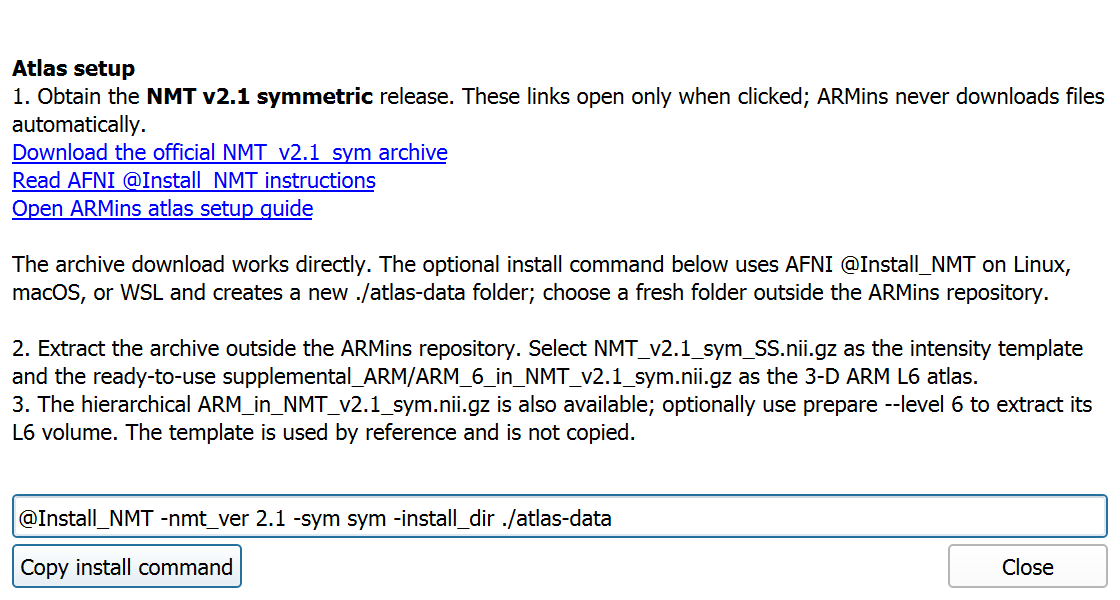
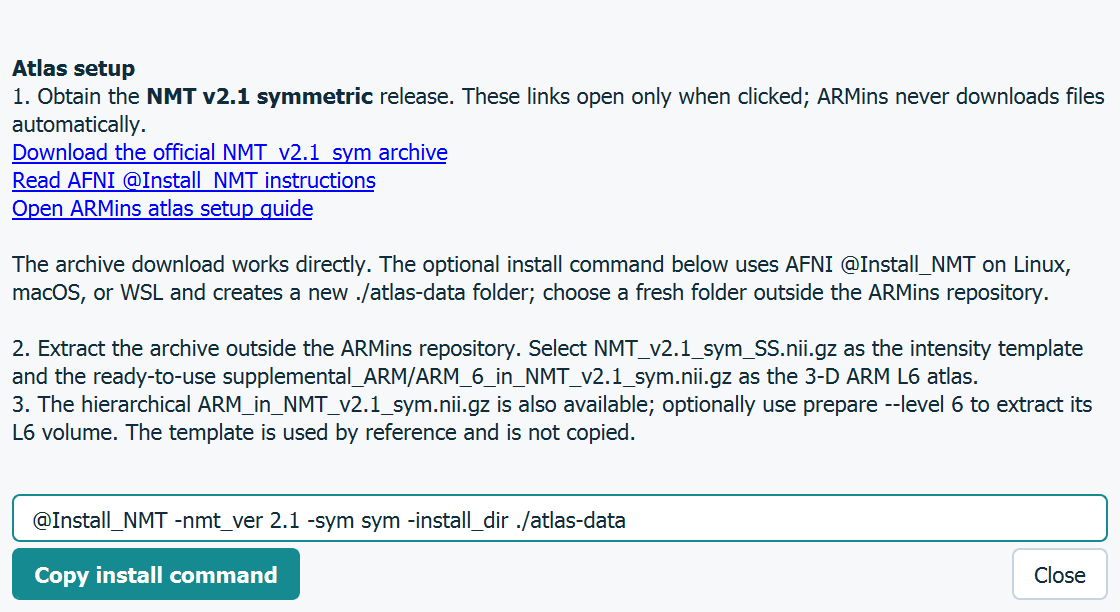
Improve GUI contrast and distinguish region selection action

diff --git a/armins.py b/armins.py
@@ -1,6 +1,6 @@
 """Create bilateral full-insula editing scopes and mirror candidates.
 
-Version: 0.7.0 (local/unreleased)
+Version: 0.7.1 (local/unreleased)
 Last updated: 2026-10-22
 Change history: CHANGELOG.md
 Status: experimental
@@ -24,7 +24,7 @@ try:
 except Exception:  # Slicer is optional for CLI preparation and array validation.
     slicer = None
 
-VERSION = "0.7.0 (local/unreleased)"
+VERSION = "0.7.1 (local/unreleased)"
 
 
 def _runtime_provenance(nib=None):
@@ -1368,6 +1368,93 @@ ARMINS_ATLAS_SETUP_URL = "https://github.com/bylaikaby/ARMins#atlas-setup"
 NMT_INSTALL_COMMAND = "@Install_NMT -nmt_ver 2.1 -sym sym -install_dir ./atlas-data"
 
 
+def _apply_gui_theme(dialog):
+    """Apply a dialog-local navy/teal palette inspired by VisPa's light GUI."""
+    dialog.setStyleSheet("""
+        QDialog { background: #f6f8fa; color: #102b3a; }
+        QLabel { color: #102b3a; }
+        QLabel[arminsRole="banner"] {
+            background: #263746; color: #f4f7f9;
+            border-radius: 6px; padding: 9px 14px;
+        }
+        QLabel[arminsRole="section"] {
+            color: #126b78; font-weight: bold;
+            padding: 4px 0px 3px 0px; border-bottom: 1px solid #d9e3e9;
+        }
+        QLabel[arminsRole="note"] {
+            background: #edf6f7; border: 1px solid #d9e3e9;
+            border-left: 3px solid #168a91; border-radius: 4px; padding: 7px;
+        }
+        QLabel[arminsRole="status"] {
+            background: #eef3f6; border: 1px solid #d9e3e9;
+            border-radius: 4px; padding: 6px; color: #102b3a;
+        }
+        QLineEdit, QComboBox {
+            background: #ffffff; color: #102b3a; border: 1px solid #c6d5df;
+            border-radius: 4px; padding: 3px 7px; min-height: 16px;
+            selection-background-color: #168a91; selection-color: #ffffff;
+        }
+        QLineEdit:focus, QComboBox:focus { border: 1px solid #168a91; }
+        QComboBox QAbstractItemView {
+            background: #ffffff; color: #102b3a;
+            selection-background-color: #edf6f7; selection-color: #126b78;
+        }
+        QPushButton {
+            background: #ffffff; color: #102b3a; border: 1px solid #c6d5df;
+            border-radius: 4px; padding: 4px 10px; min-height: 16px;
+        }
+        QPushButton:hover { background: #edf6f7; border-color: #168a91; }
+        QPushButton:focus { border: 2px solid #168a91; }
+        QPushButton[arminsRole="primary"] {
+            background: #168a91; color: #ffffff; border-color: #168a91;
+            font-weight: bold;
+        }
+        QPushButton[arminsRole="primary"]:hover { background: #126b78; }
+        QPushButton[arminsRole="region"] {
+            background: #6f4a9e; color: #ffffff; border-color: #6f4a9e;
+            font-weight: bold;
+        }
+        QPushButton[arminsRole="region"]:hover { background: #583780; }
+        QPushButton[arminsRole="mirror"] {
+            background: #263746; color: #f4f7f9; border-color: #263746;
+            font-weight: bold;
+        }
+        QPushButton[arminsRole="mirror"]:hover { background: #365065; }
+        QPushButton[arminsRole="save"] {
+            background: #edf6f7; color: #126b78; border-color: #a9cdd1;
+        }
+        QPushButton:disabled, QPushButton[arminsRole="primary"]:disabled,
+        QPushButton[arminsRole="mirror"]:disabled,
+        QPushButton[arminsRole="save"]:disabled,
+        QLineEdit:disabled, QComboBox:disabled {
+            background: #e9eef2; color: #334a59; border: 1px solid #d9e3e9;
+        }
+        QPushButton[arminsRole="region"]:disabled {
+            background: #eee8f5; color: #59416f; border: 1px solid #cdbfdf;
+        }
+    """)
+
+
+def _gui_section(form, parent, title):
+    """Add a compact visual divider without changing any workflow controls."""
+    import qt
+    heading = qt.QLabel(title, parent)
+    heading.setProperty("arminsRole", "section")
+    form.addRow(heading)
+
+
+def _colour_working_side(side_combo, direction):
+    """Redundant colour/text cues: teal for L, amber for R."""
+    left = side_combo.currentText == "L"
+    accent, soft = ("#126b78", "#edf6f7") if left else ("#97521f", "#fff3e6")
+    side_combo.setStyleSheet(
+        f"QComboBox {{ color: {accent}; background: {soft}; "
+        f"border: 1px solid {accent}; font-weight: bold; }}")
+    direction.setStyleSheet(
+        f"QLabel {{ color: {accent}; background: {soft}; "
+        f"border: 1px solid {accent}; border-radius: 4px; padding: 4px 8px; font-weight: bold; }}")
+
+
 def show_atlas_setup_help(parent=None):
     """Open a user-invoked help dialog with official links and a copyable command."""
     _require_slicer()
@@ -1377,6 +1464,7 @@ def show_atlas_setup_help(parent=None):
     help_dialog.setObjectName("NMTAtlasSetupHelpDialog")
     help_dialog.setWindowTitle("Set up NMT v2.1 symmetric atlas")
     help_dialog.setMinimumWidth(560)
+    _apply_gui_theme(help_dialog)
     layout = qt.QVBoxLayout(help_dialog)
     guidance = qt.QLabel(
         "<b>Atlas setup</b><br>"
@@ -1407,13 +1495,15 @@ def show_atlas_setup_help(parent=None):
     buttons = qt.QHBoxLayout()
     copy_button = qt.QPushButton("Copy install command", help_dialog)
     copy_button.setObjectName("CopyNMTInstallCommandButton")
+    copy_button.setProperty("arminsRole", "primary")
     close_button = qt.QPushButton("Close", help_dialog)
+    close_button.setObjectName("CloseNMTSetupHelpButton")
     buttons.addWidget(copy_button)
     buttons.addStretch(1)
     buttons.addWidget(close_button)
     layout.addLayout(buttons)
-    copy_button.clicked.connect(lambda: slicer.app.clipboard().setText(NMT_INSTALL_COMMAND))
-    close_button.clicked.connect(help_dialog.close)
+    copy_button.clicked.connect(lambda *_: slicer.app.clipboard().setText(NMT_INSTALL_COMMAND))
+    close_button.clicked.connect(lambda *_: help_dialog.close())
     help_dialog.show()
     return help_dialog
 
@@ -1433,9 +1523,21 @@ def show_gui():
 
     dialog = qt.QDialog(slicer.util.mainWindow())
     dialog.setObjectName("InsulaAtlasEditorDialog")
-    dialog.setWindowTitle("Insula atlas editor")
+    dialog.setWindowTitle("ARMins · Atlas editor")
     dialog.setMinimumWidth(680)
+    _apply_gui_theme(dialog)
     form = qt.QFormLayout(dialog)
+    form.setContentsMargins(12, 12, 12, 12)
+    form.setHorizontalSpacing(14)
+    form.setVerticalSpacing(5)
+
+    banner = qt.QLabel(
+        "<b>ARMins</b> &nbsp; Atlas refinement<br>"
+        "<span style='color:#a9c0cc'>NMT v2.1 symmetric · Edit one side, review its mirror</span>",
+        dialog)
+    banner.setObjectName("ARMinsBanner")
+    banner.setProperty("arminsRole", "banner")
+    form.addRow(banner)
 
     setup_help_button = qt.QPushButton("NMT v2.1 setup help", dialog)
     setup_help_button.setObjectName("NMTv21SetupHelpButton")
@@ -1446,6 +1548,7 @@ def show_gui():
         ATLAS_SETUP_HELP_DIALOG = show_atlas_setup_help(dialog)
 
     setup_help_button.connect("clicked()", open_setup_help)
+    _gui_section(form, dialog, "01  ·  ATLAS INPUTS AND REGION")
 
     def file_row(default_path, label):
         row = qt.QWidget(dialog)
@@ -1488,6 +1591,10 @@ def show_gui():
     search_edit = qt.QLineEdit(search_row)
     search_edit.setObjectName("ARMHierarchySearch")
     search_edit.setPlaceholderText("Search name, abbreviation, or exact numeric index")
+    search_palette = search_edit.palette
+    search_palette.setColor(qt.QPalette.PlaceholderText, qt.QColor("#334a59"))
+    search_palette.setColor(qt.QPalette.Disabled, qt.QPalette.PlaceholderText, qt.QColor("#334a59"))
+    search_edit.setPalette(search_palette)
     search_side = qt.QComboBox(search_row)
     search_side.addItems(["Both", "L", "R"])
     search_level = qt.QComboBox(search_row)
@@ -1502,12 +1609,16 @@ def show_gui():
     hierarchy_results.setObjectName("ARMHierarchyResults")
     form.addRow("Search results:", hierarchy_results)
     use_region_button = qt.QPushButton("Use selected region (pending)", dialog)
+    use_region_button.setObjectName("UseSelectedRegionButton")
+    use_region_button.setProperty("arminsRole", "region")
     form.addRow(use_region_button)
     region_preview = qt.QLabel("Insula preset is selected. Hierarchy search does not change the scene.", dialog)
     region_preview.setWordWrap(True)
     region_preview.setObjectName("ARMHierarchyProfilePreview")
+    region_preview.setProperty("arminsRole", "note")
     form.addRow("Region preview:", region_preview)
 
+    _gui_section(form, dialog, "02  ·  WORKING HEMISPHERE")
     side_combo = qt.QComboBox(dialog)
     side_combo.addItems(["L", "R"])
     side_combo.setObjectName("WorkingHemisphere")
@@ -1602,19 +1713,17 @@ def show_gui():
     region_mode.currentIndexChanged.connect(lambda *_: search_enable(region_mode.currentIndex == 1))
     search_enable(False)
     guidance = qt.QLabel(
-        "Guidance\n"
-        "1. Choose a 3-D template and ARM level-6 compatible label map. "
-        "The insula preset requires its 16 ARM L6 IDs; hierarchy mode requires only the selected region's bilateral L6 leaves.\n"
-        "2. Load checks that both files have matching image grids. Nothing is resampled.\n"
-        "3. Select a working hemisphere and seed, apply its selected-region scope, then choose Paint. "
-        "Visible donor seeds transfer voxels; hidden siblings can overlap, which the mirror check rejects.\n"
-        "4. Finish one side, then Mirror selected side (new candidate) and Save mirrored candidate. "
-        "Both working groups are preserved.", dialog)
+        "1. Validate matching template/ARM6 grids and the selected region's bilateral labels.\n"
+        "2. Choose L or R and a parcel; apply its scope, then Paint. Visible donors transfer voxels; hidden siblings may overlap.\n"
+        "3. Finish one side, then mirror and review the new opposite-side candidate. Both working groups are preserved.", dialog)
     guidance.setWordWrap(True)
+    guidance.setProperty("arminsRole", "note")
     form.addRow(guidance)
 
     load_button = qt.QPushButton("Validate inputs and load groups", dialog)
+    load_button.setProperty("arminsRole", "primary")
     form.addRow(load_button)
+    _gui_section(form, dialog, "03  ·  EDIT, MIRROR AND SAVE")
     parcel_combo = qt.QComboBox(dialog)
     refresh_button = qt.QPushButton("Refresh parcel list", dialog)
     select_row = qt.QWidget(dialog)
@@ -1625,6 +1734,7 @@ def show_gui():
     form.addRow("Editing group / seed:", select_row)
     apply_button = qt.QPushButton("Apply scope restriction", dialog)
     save_button = qt.QPushButton("Save selected side…", dialog)
+    save_button.setProperty("arminsRole", "save")
     action_row = qt.QWidget(dialog)
     action_layout = qt.QHBoxLayout(action_row)
     action_layout.setContentsMargins(0, 0, 0, 0)
@@ -1632,7 +1742,9 @@ def show_gui():
     action_layout.addWidget(save_button)
     form.addRow(action_row)
     mirror_button = qt.QPushButton("Mirror selected side (new candidate)", dialog)
+    mirror_button.setProperty("arminsRole", "mirror")
     save_mirror_button = qt.QPushButton("Save mirrored candidate…", dialog)
+    save_mirror_button.setProperty("arminsRole", "save")
     mirror_row = qt.QWidget(dialog)
     mirror_layout = qt.QHBoxLayout(mirror_row)
     mirror_layout.setContentsMargins(0, 0, 0, 0)
@@ -1641,9 +1753,12 @@ def show_gui():
     form.addRow(mirror_row)
     direction = qt.QLabel("L → R", dialog)
     direction.setObjectName("MirrorDirection")
+    _colour_working_side(side_combo, direction)
     form.addRow("Candidate direction:", direction)
     status = qt.QLabel("Choose inputs, then validate and load. Opening this panel does not change the scene.", dialog)
     status.setWordWrap(True)
+    status.setObjectName("ARMinsStatus")
+    status.setProperty("arminsRole", "status")
     form.addRow("Status:", status)
 
     gui_ready = False
@@ -1770,6 +1885,7 @@ def show_gui():
     atlas_edit.textChanged.connect(invalidate)
     def focus_working_side(*_):
         direction.setText(f"{side_combo.currentText} → {'R' if side_combo.currentText == 'L' else 'L'}")
+        _colour_working_side(side_combo, direction)
         if not gui_ready:
             return
         refresh_parcels()

diff --git a/tests/slicer_smoke.py b/tests/slicer_smoke.py
@@ -1,6 +1,6 @@
 """Isolated native Slicer integration check for ARMins.
 
-Version: 0.7.0 (local/unreleased)
+Version: 0.7.1 (local/unreleased)
 Last updated: 2026-10-22
 Change history: CHANGELOG.md
 Status: candidate
@@ -51,12 +51,36 @@ def main():
         ns = runpy.run_path(str(loader), run_name='armins_mirror_native_test')
         glob = ns['run'].__globals__
         if phase == 'design':
+            main_window = slicer.util.mainWindow()
+            main_style_before = main_window.styleSheet if main_window is not None else None
             dialog = ns['show_gui']()
             slicer.app.processEvents()
-            image_path = output / 'mirror_dialog.png'
+            import qt
+            assert '#263746' in dialog.styleSheet and '#168a91' in dialog.styleSheet
+            assert dialog.findChild(qt.QLabel, 'ARMinsBanner') is not None
+            side = dialog.findChild(qt.QComboBox, 'WorkingHemisphere')
+            direction = dialog.findChild(qt.QLabel, 'MirrorDirection')
+            scene_before_side = slicer.mrmlScene.GetNumberOfNodes()
+            side.setCurrentIndex(1)
+            assert direction.text == 'R → L' and '#97521f' in direction.styleSheet
+            assert slicer.mrmlScene.GetNumberOfNodes() == scene_before_side
+            right_image = output / 'mirror_dialog_right.png'
+            assert dialog.grab().save(str(right_image))
+            receipt['right_side_screenshot'] = str(right_image)
+            side.setCurrentIndex(0)
+            assert direction.text == 'L → R' and '#126b78' in direction.styleSheet
+            if main_window is not None:
+                assert main_window.styleSheet == main_style_before
+            passed('dialog-local VisPa palette and redundant L/R colour-direction cues leave scene and Slicer theme unchanged')
+            use_region = dialog.findChild(qt.QPushButton, 'UseSelectedRegionButton')
+            assert use_region.property('arminsRole') == 'region' and not use_region.enabled
+            assert '#59416f' in dialog.styleSheet and '#334a59' in dialog.styleSheet
+            search = dialog.findChild(qt.QLineEdit, 'ARMHierarchySearch')
+            assert search.palette.color(qt.QPalette.Disabled, qt.QPalette.PlaceholderText).name() == '#334a59'
+            passed('dark inactive text and placeholder; distinct purple region action retains disabled state')
+            image_path = output / 'mirror_dialog.png' 
             assert dialog.grab().save(str(image_path))
             receipt['screenshot'] = str(image_path)
-            import qt
             labels = [button.text for button in dialog.findChildren(qt.QPushButton)]
             assert any('Mirror selected side' in label for label in labels), labels
             assert any('Save mirrored candidate' in label for label in labels), labels
@@ -94,8 +118,10 @@ def main():
             assert help_dialog.grab().save(str(help_image))
             receipt['atlas_setup_help_screenshot'] = str(help_image)
             passed('setup help opens without scene changes and exposes official links and copyable install command')
-            help_dialog.close()
+            help_dialog.findChild(qt.QPushButton, 'CloseNMTSetupHelpButton').click()
             slicer.app.processEvents()
+            assert not help_dialog.isVisible()
+            passed('native setup-help Close button accepts the Qt clicked signal and closes the dialog')
             receipt['buttons'] = labels
             passed('actual native dialog contains both mirror controls; screenshot saved')
             dialog.close()

diff --git a/README.md b/README.md
@@ -157,6 +157,11 @@ Last_Level describe label availability, not parent-child paths.
 
 ![ARMins region selection and working-hemisphere controls](docs/editor.png)
 
+The dialog uses dark text, teal section accents and a purple **Use selected region**
+action. Its pale-purple state is disabled. Working-side cues use teal for L and
+amber for R, alongside explicit hemisphere and mirror-direction text.
+
+
 The actual editor before loading: hierarchy controls become available when
 **ARM hierarchy** is selected; **Candidate direction** follows the working side.
 
@@ -401,13 +406,17 @@ existing destinations. A supplied 3-D ARM6 file is returned without duplication.
 python -m unittest discover -s tests -p "test_*.py" -v
 ```
 
-The 0.7.0 snapshot passed **49 distinct synthetic tests**, a read-only pairing
+The 0.7.0 hierarchy snapshot passed **49 distinct synthetic tests**, a read-only pairing
 audit of all **837 left-side hierarchy nodes** and their right counterparts,
 and separate native **Slicer 5.12.0** checks for both the insula and ACC groups.
 The native tests exercise search/pending-selection non-mutation, L/R focus,
 paired group reuse, exact mirroring, preserved earlier groups/editor state,
 hidden helpers, and save/reload. These are technical checks, not anatomical
 validation.
+
+The 0.7.1 GUI update passed the same 49 synthetic tests, five native design/help
+checks and 11 native hierarchy checks after visual review. Its stylesheet is
+local to the ARMins dialogs; atlas and mirror algorithms are unchanged.
 
 The array, editor, NIfTI and CLI tests use synthetic fixtures. Native Slicer
 testing uses explicitly supplied external inputs and a separate testing scene;

diff --git a/docs/project_note.md b/docs/project_note.md
@@ -26,6 +26,27 @@ operation. Template images remain external references; source data are preserved
 
 ## Operations journal
 
+### 2026-10-22 | Agent Codex | GUI colour and contrast refinement
+
+- Objective: add VisPa-like colour elements; follow-up requested darker text
+  and a different colour for Use selected region. Starting point was the
+  published 0.7.0 hierarchy editor. No VisPa code or dependency was imported.
+- Result: dialog-local navy/teal layout, dark active/inactive text, purple
+  region action with a pale-purple disabled state, and teal L / amber R cues.
+  Iterated compact padding and retained native dropdown arrows after visual
+  inspection. Fixed the setup-help Close signal callback.
+- Verification: reviewed actual blank-input Slicer 5.12.0 screenshots first;
+  then 49 synthetic tests and 11 native hierarchy checks passed. Five design
+  checks cover theme isolation, L/R cues, contrast/action state, help and Close.
+  AST comparison confirms all existing non-GUI functions are unchanged.
+- Review: (1) Open README's editor image and inspect text/purple action;
+  (2) choose hierarchy mode and check region selection, then L/R direction;
+  (3) review a separate mirror candidate before scientific acceptance.
+  Earlier hierarchy/manual/download/publication requests remain delivered;
+  anatomical acceptance, arbitrary ontologies, bilateral NIfTI merge/export
+  and code-license selection remain open as documented.
+
+
 ### 2026-10-22 | Agent Codex | Hierarchy region selection and symmetry-first guide
 
 - Objective: provide a complete README guide; allow either L or R as the working

diff --git a/CHANGELOG.md b/CHANGELOG.md
@@ -2,6 +2,17 @@
 
 One consolidated history. README.md is the operator guide.
 
+## 0.7.1 - 2026-10-22 (local/unreleased)
+
+- Added dialog-local VisPa-inspired navy/teal styling, compact section headings,
+  darker text (including inactive search fields), and a distinct purple region
+  action with a pale disabled state. L/R cues retain explicit text and use
+  teal/amber. No scientific algorithm or atlas definition changed.
+- Fixed setup-help Close handling for Qt's clicked signal.
+- Replaced README images with reviewed native Slicer captures. Validation:
+  49 synthetic tests, five native design/help checks and 11 native hierarchy
+  checks; screenshots reviewed before behavior testing. See provenance.json.
+
 ## 0.7.0 - 2026-10-22 (local/unreleased)
 
 - Added explicit ARM hierarchy search and parent-to-level-6 grouping from an
